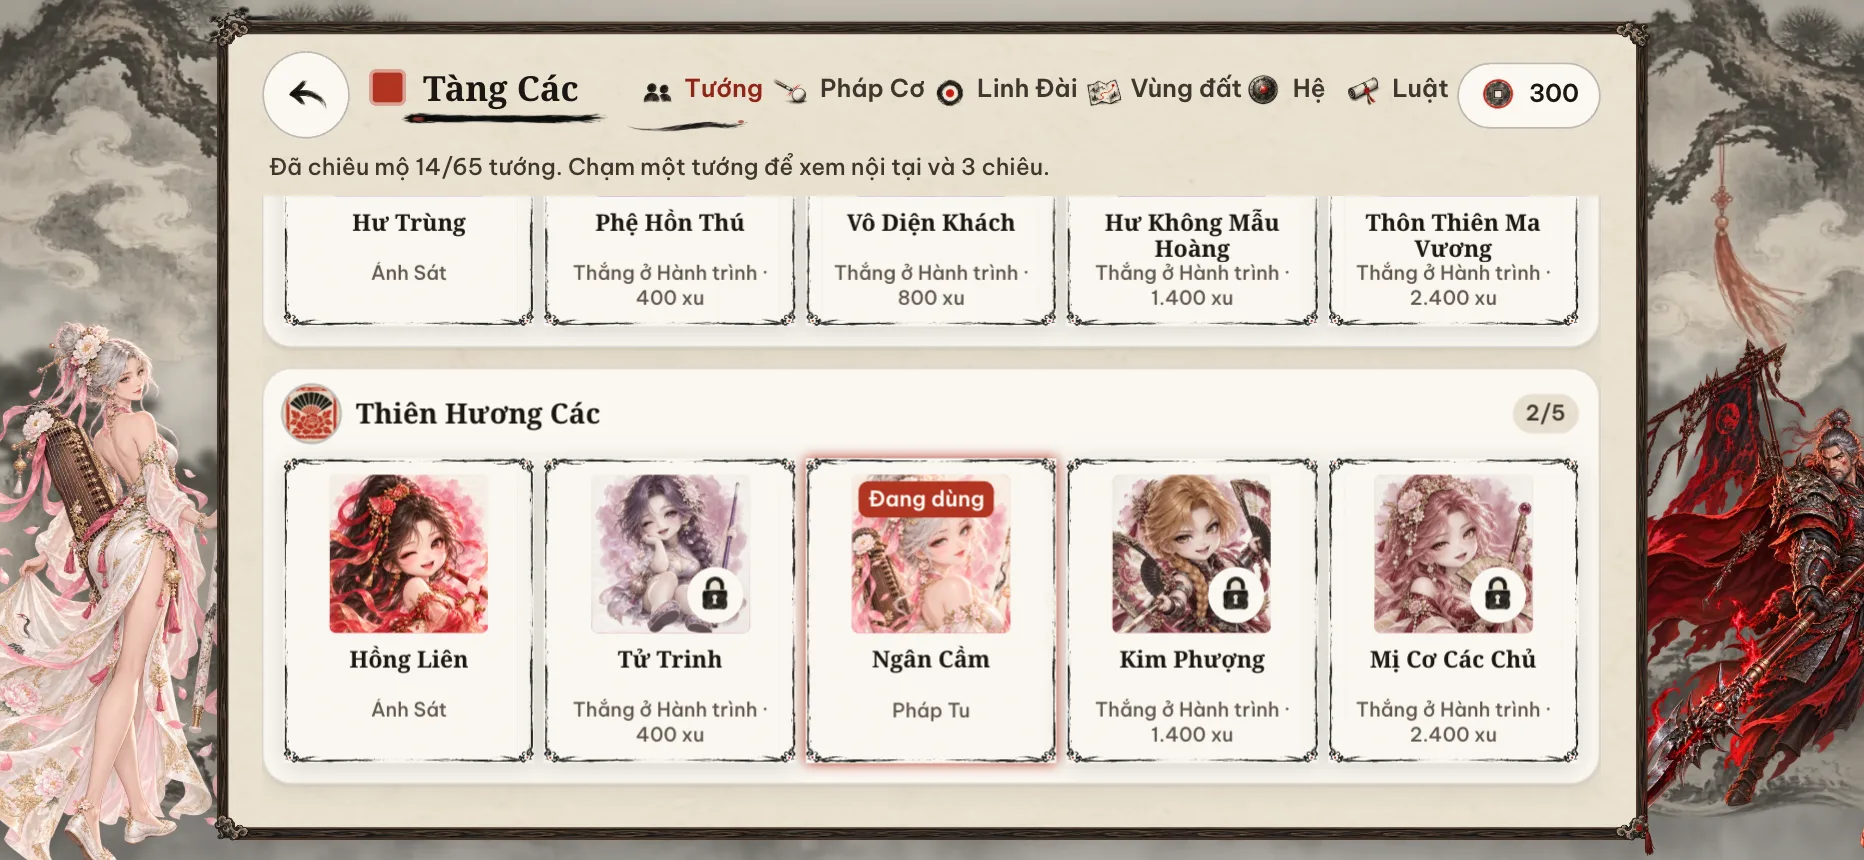
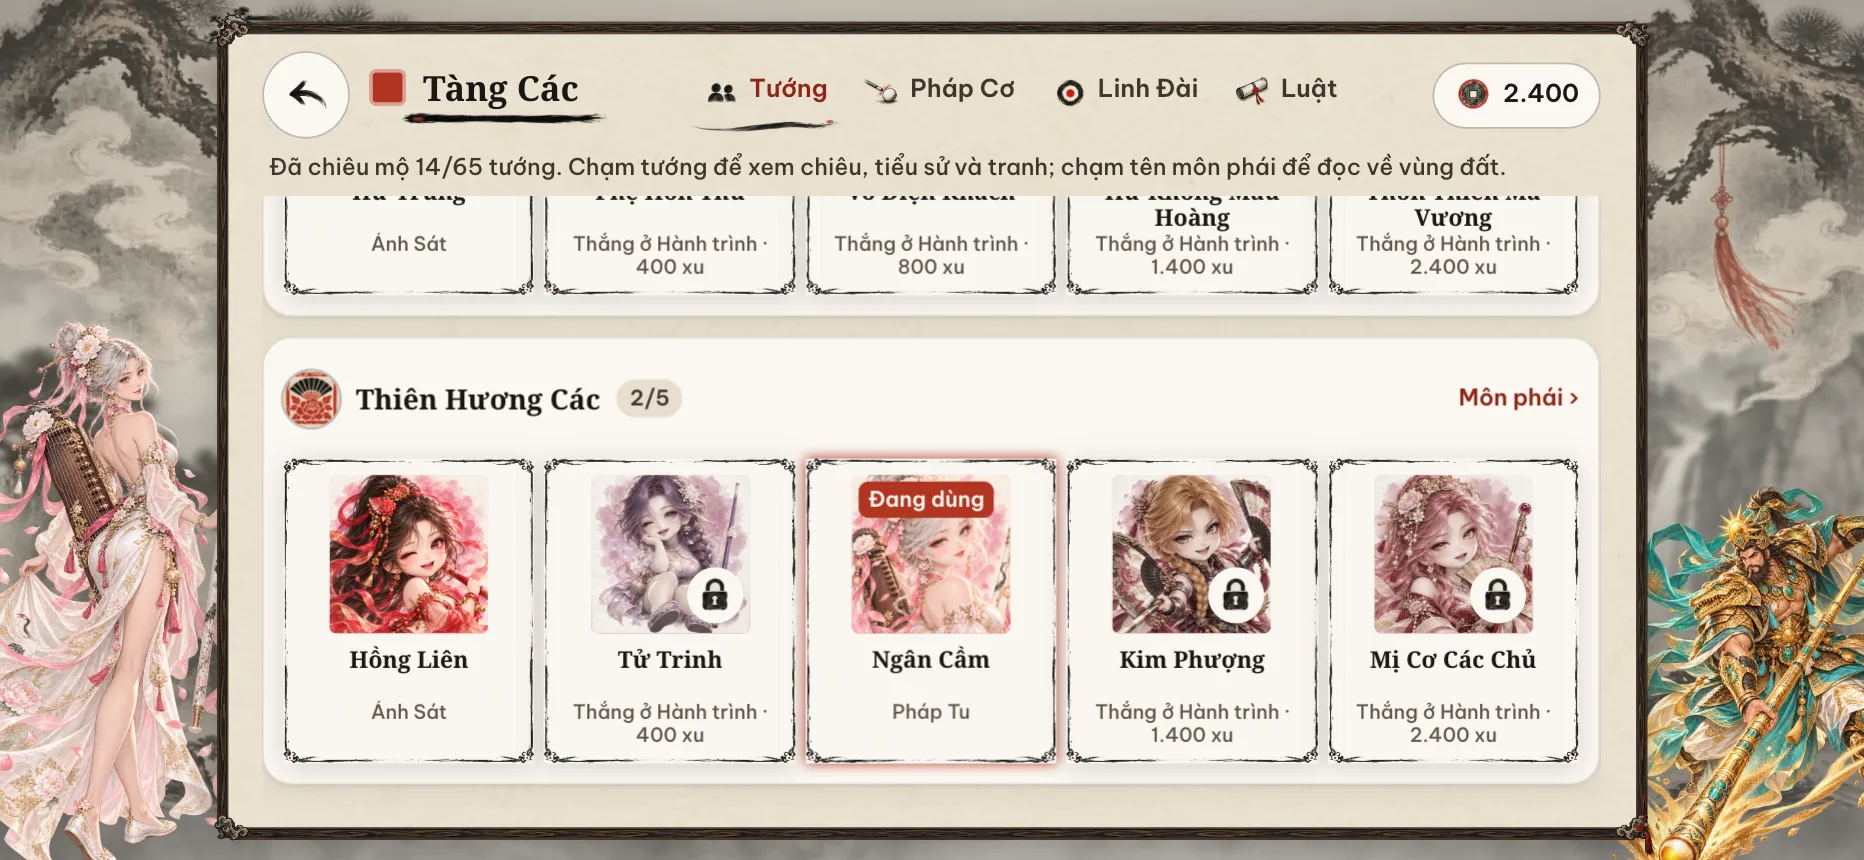
docs: retake the Tàng Các, champion page and sect page screenshots

diff --git a/README.md b/README.md
@@ -32,7 +32,7 @@ tiên hiệp riêng: **Cơ Tiên Giới** với 13 môn phái, 65 tướng, mỗ
 | **Song Đấu** | Hai người chung một máy, mỗi bên chọn tướng và cơ riêng |
 | **Luyện Cơ** | 60 thử thách có lời giải đã kiểm chứng, chấm sao |
 | **Luyện thế** | Tự bày thế, đánh tự do, đánh lại, xem trước đường đi của mọi bi |
-| **Tàng Các** | Tướng, Pháp Cơ, Linh Đài và Cơ Tiên Lục: wiki của thế giới |
+| **Tàng Các** | Tướng, Pháp Cơ, Linh Đài, trang từng môn phái và luật chơi |
 | **Cơ Tiên Truyện** | Truyện chữ có tranh thuỷ mặc, 15 chương mở dần theo Hành trình |
 
 **Làm cho điện thoại.**
@@ -59,9 +59,9 @@ Chụp ở 932×430, tướng của người chơi là Ngân Cầm.
 | **Luyện thế · chọn thế** | **Luyện thế · Đường đi** |
 | ![Chọn thế luyện](docs/screenshots/luyen-the-chon.webp) | ![Bàn Luyện thế với đường đi của mọi bi](docs/screenshots/luyen-the.webp) |
 | **Tàng Các** | **Trang tướng** |
-| ![Tàng Các](docs/screenshots/tang-cac.webp) | ![Thông tin tướng và ba icon kỹ năng](docs/screenshots/trang-tuong.webp) |
-| **Cơ Tiên Lục** | **Cơ Tiên Truyện** |
-| ![Cơ Tiên Lục trong Tàng Các](docs/screenshots/co-tien-luc.webp) | ![Đọc Cơ Tiên Truyện](docs/screenshots/co-tien-truyen.webp) |
+| ![Tàng Các](docs/screenshots/tang-cac.webp) | ![Trang tướng: ba icon chiêu, mục Tiểu sử và Tranh](docs/screenshots/trang-tuong.webp) |
+| **Trang môn phái** | **Cơ Tiên Truyện** |
+| ![Trang môn phái trong Tàng Các](docs/screenshots/mon-phai.webp) | ![Đọc Cơ Tiên Truyện](docs/screenshots/co-tien-truyen.webp) |
 
 Trên màn hình 2K (2560×1440), khung 16:9 nằm giữa phông tranh, tướng đứng hai bên:
 
